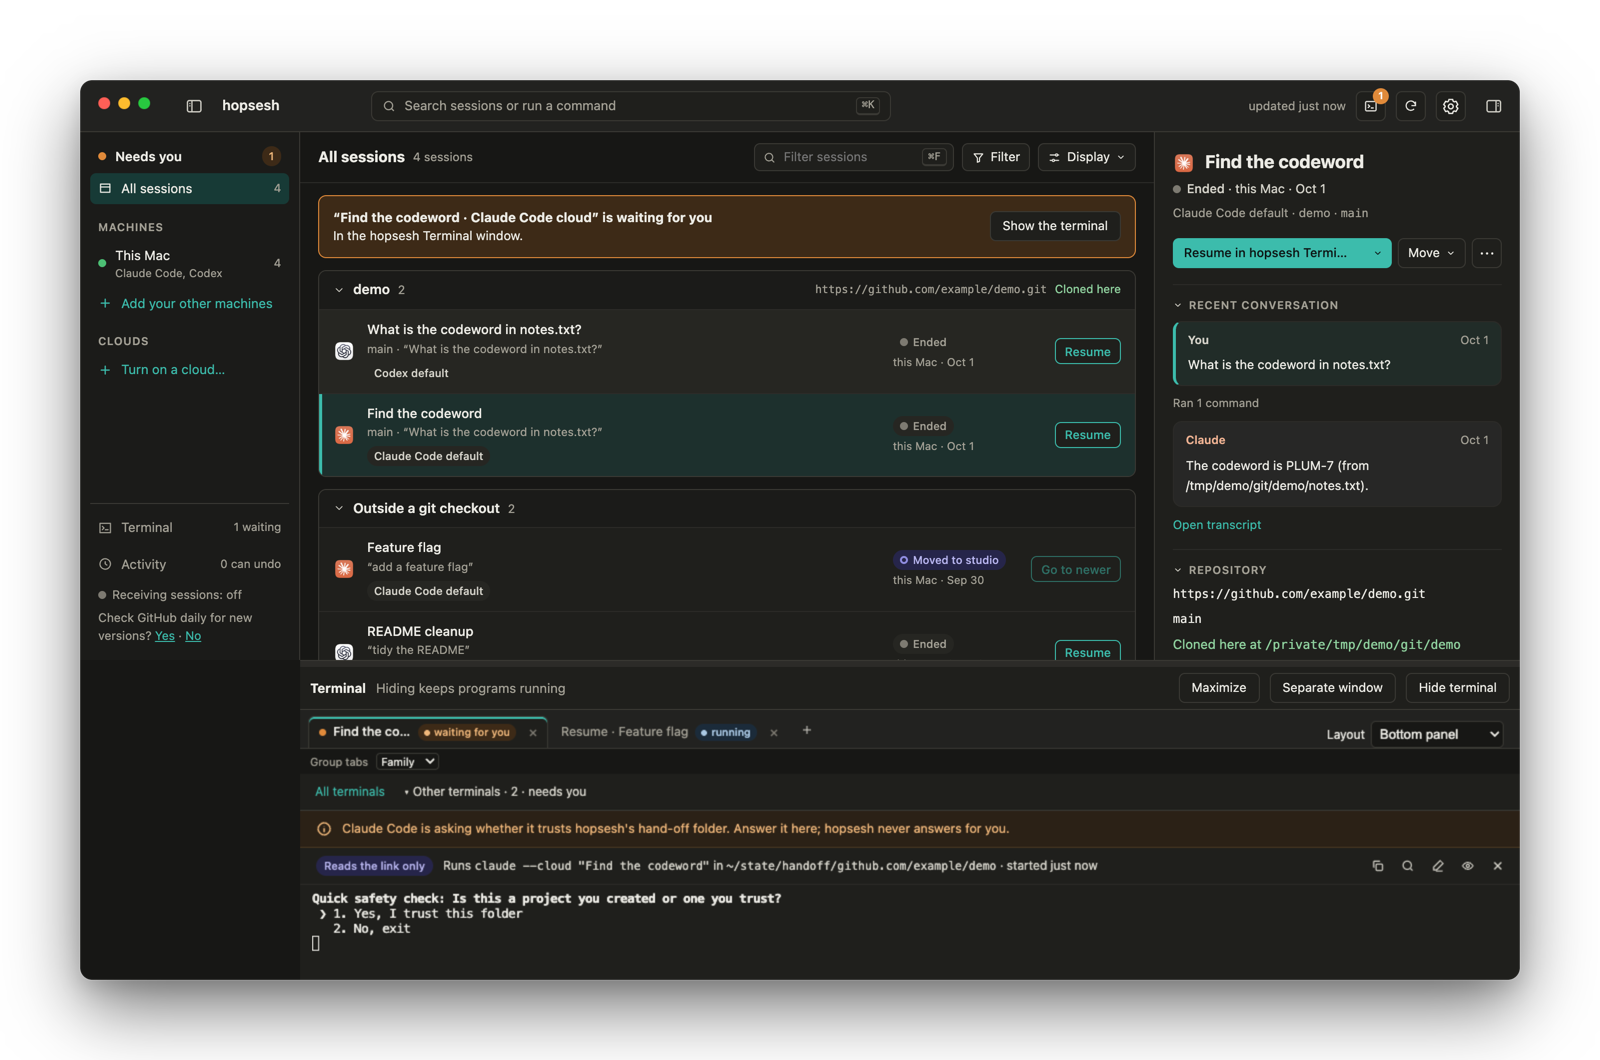
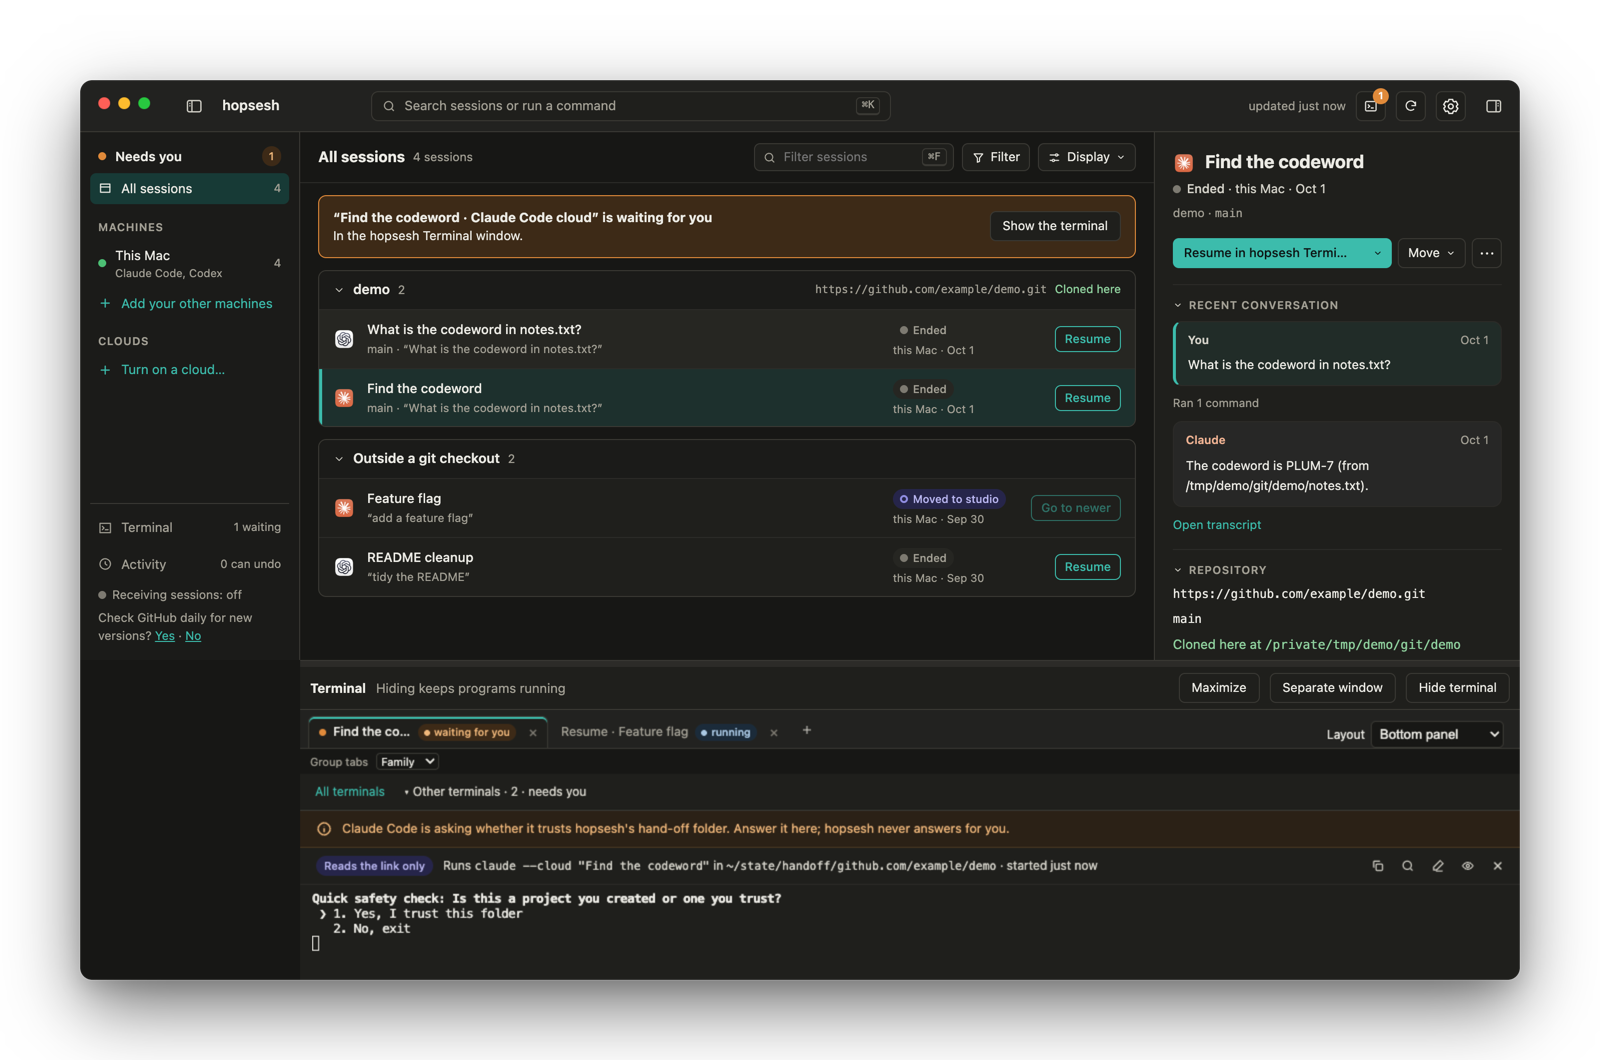
README: round-trip picture, and the stills refreshed for the tidier session labels
Adds the moved-out original, blocked until it moves back, to Round trips, and recaptures the hand-off and Terminal stills without the per-agent account labels.

diff --git a/README.md b/README.md
@@ -266,6 +266,11 @@ Move a session to your laptop, or into Codex, work on it, and bring it back late
 - **The history travels with the session.** A small `<session>.hopsesh.json` beside it records
   its copies and hops, so the next move works from any machine.
 
+<picture>
+  <source media="(prefers-color-scheme: dark)" srcset="docs/assets/round-trip-dark.png">
+  <img src="docs/assets/round-trip-light.png" alt="After continuing Find the codeword in Codex: the original is marked Moved out and blocked until it moves back, with Open moved copy and Remove block, while the list shows the newest copy is in Codex" width="900">
+</picture>
+
 Details: [docs/design.md §10](docs/design.md#10-round-trips-and-lineage) and
 [§12](docs/design.md#12-code-follows-the-conversation).
 
